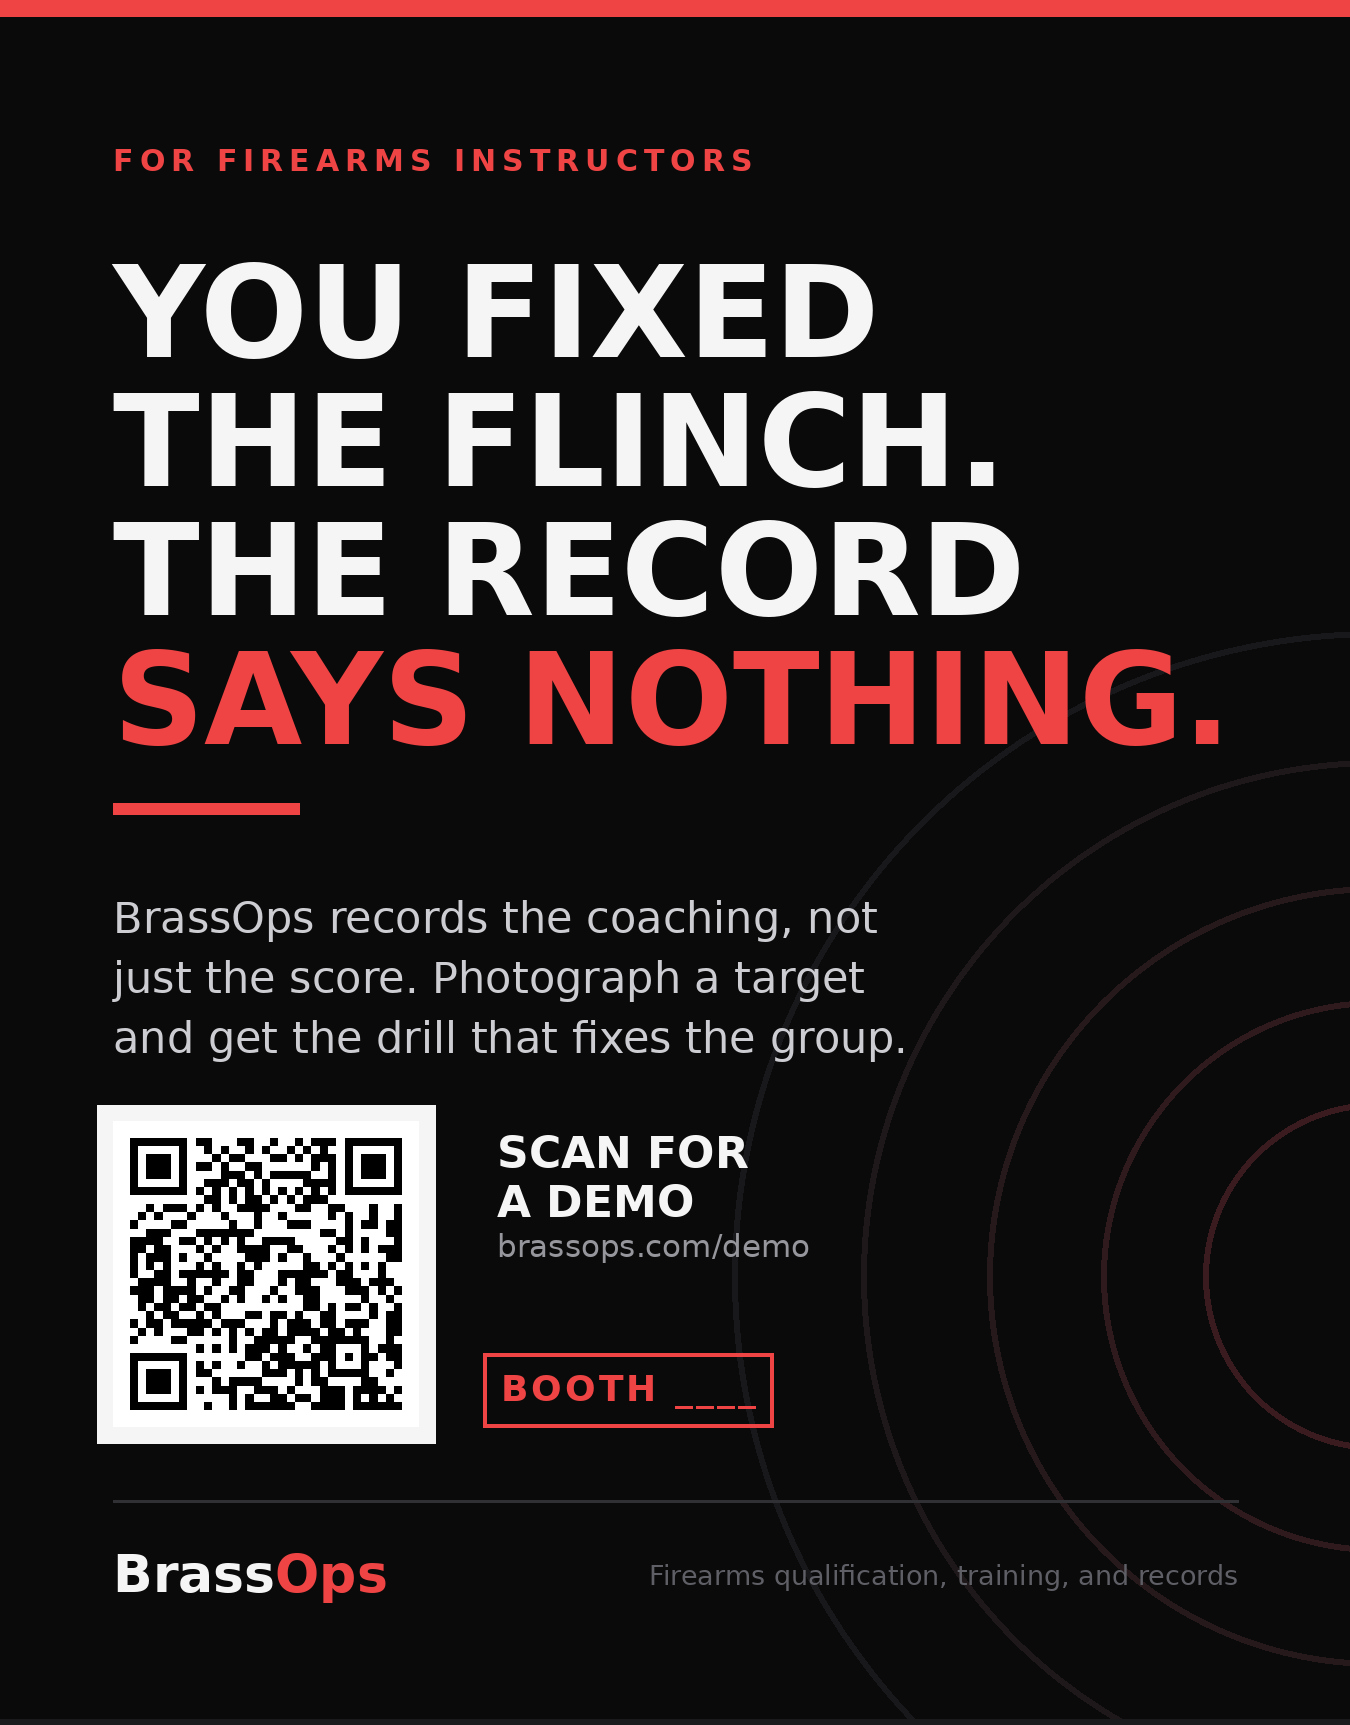
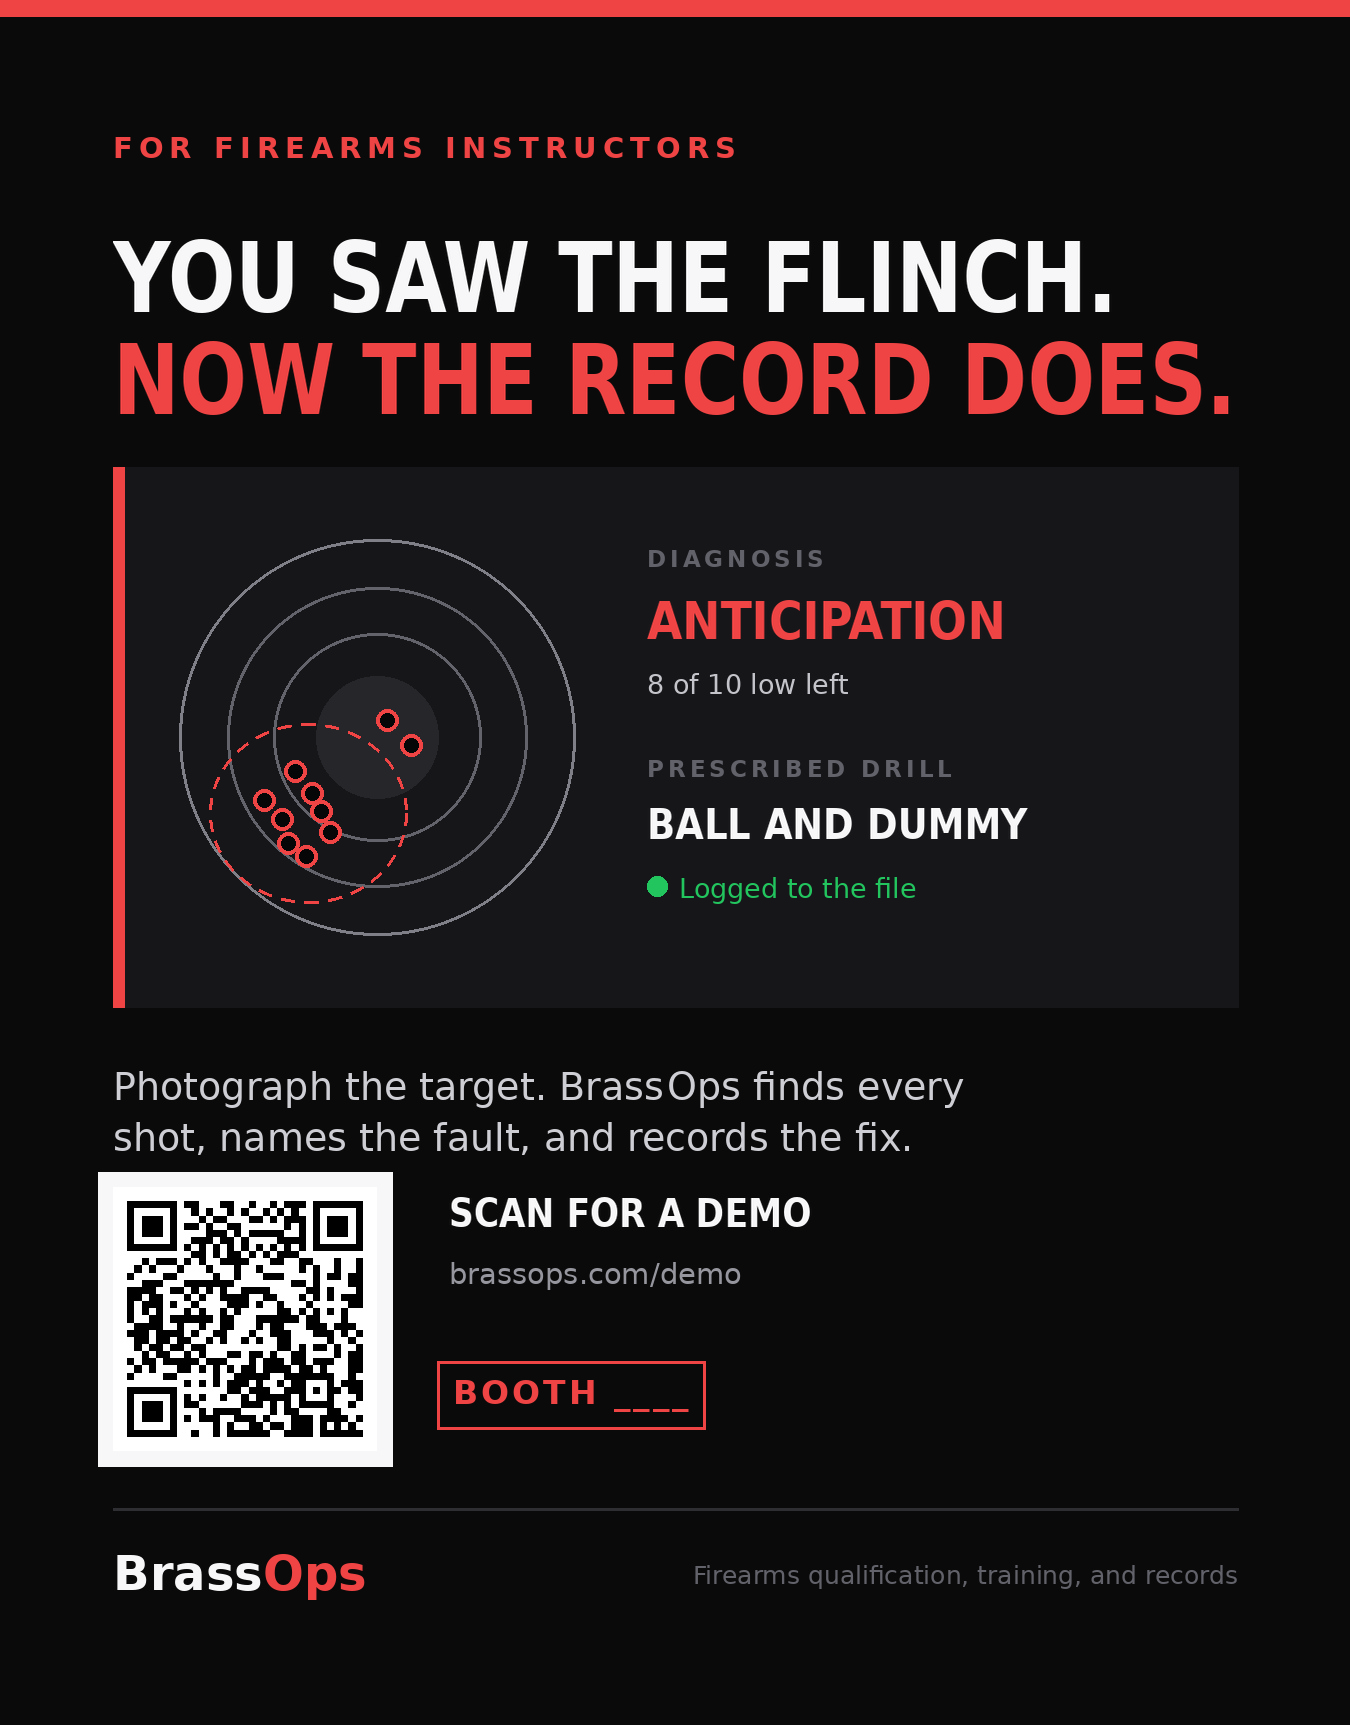
Rebuild trade show ad around the product doing its job
The first pass was four lines of type with no product in it, which is
exactly what every other ad on the page looks like. This version leads
with a shot group instead: an instructor reads a target faster than a
headline, so the picture carries the pitch and the copy stays short.

- Target with ten detected shots grouped low and left, the textbook
  anticipation pattern, with the eight in the dashed group ring matching
  the '8 of 10 low left' readout beside it.
- Readout shows the diagnosis, the prescribed drill, and that the
  session was recorded.
- QR verified to decode to brassops.com/demo.
- Outputs bleed PNG, trim only PNG, and a CMYK JPG for the printer.

diff --git a/ad/build_ad.py b/ad/build_ad.py
@@ -1,166 +1,207 @@
 #!/usr/bin/env python3
 """
-Quarter page magazine ad, built at 300 dpi with bleed.
+Quarter page magazine ad, 300 dpi with bleed.
 
-Trim   4.25 x 5.5 in   (quarter of a US Letter page, portrait)
-Bleed  0.125 in all round
-Safe   0.25 in inside trim
+Trim 4.25 x 5.5 in, 0.125 in bleed, 0.25 in safe margin.
 
-Rendered rather than laid out in a page tool so the output is exact and
-font independent: whatever appears in the PNG is what prints.
+The hero is the product doing its job: a photographed target with every shot
+detected, the group diagnosed, and a drill prescribed. An instructor reads a
+shot group faster than they read a headline, so the picture carries the pitch
+and the type stays short.
 """
 from PIL import Image, ImageDraw, ImageFont
+import io
 import segno
 
 DPI = 300
 def IN(x): return int(round(x * DPI))
 
-TRIM_W, TRIM_H = 4.25, 5.5
-BLEED = 0.125
-SAFE = 0.25
-
+TRIM_W, TRIM_H, BLEED, SAFE = 4.25, 5.5, 0.125, 0.25
 W, H = IN(TRIM_W + BLEED * 2), IN(TRIM_H + BLEED * 2)
-BX, BY = IN(BLEED), IN(BLEED)                       # trim origin
-SX, SY = BX + IN(SAFE), BY + IN(SAFE)               # safe origin
-SW = IN(TRIM_W) - IN(SAFE) * 2                      # safe width
-SAFE_BOTTOM = BY + IN(TRIM_H) - IN(SAFE)
+BX, BY = IN(BLEED), IN(BLEED)
+SX, SY = BX + IN(SAFE), BY + IN(SAFE)
+SW = IN(TRIM_W) - IN(SAFE) * 2
+SB = BY + IN(TRIM_H) - IN(SAFE)
 
 BLACK = (10, 10, 10)
-WHITE = (245, 245, 245)
+PANEL = (22, 22, 25)
+WHITE = (247, 247, 248)
 RED = (239, 68, 68)
-GREY = (150, 150, 156)
-DIM = (95, 95, 102)
+GREEN = (34, 197, 94)
+GREY = (150, 150, 158)
+DIM = (98, 98, 106)
+PAPER = (196, 196, 202)
 
 BOLD = "/usr/share/fonts/truetype/dejavu/DejaVuSans-Bold.ttf"
 REG = "/usr/share/fonts/truetype/dejavu/DejaVuSans.ttf"
 
 img = Image.new("RGB", (W, H), BLACK)
 d = ImageDraw.Draw(img)
+F = lambda p, s: ImageFont.truetype(p, s)
 
-def font(path, size): return ImageFont.truetype(path, size)
 
-def measure(text, f):
-    b = d.textbbox((0, 0), text, font=f)
-    return b[2] - b[0], b[3] - b[1]
+def condensed(text, size, fill, squeeze=0.82):
+    """No condensed face is installed, so squeeze a wide one horizontally.
+    Gives the headline a technical feel closer to the brand face."""
+    f = F(BOLD, size)
+    w = int(d.textlength(text, font=f)) + size
+    h = int(size * 1.45)
+    tmp = Image.new("RGBA", (w, h), (0, 0, 0, 0))
+    ImageDraw.Draw(tmp).text((0, 0), text, font=f, fill=fill + (255,))
+    return tmp.resize((max(1, int(w * squeeze)), h), Image.LANCZOS)
 
-def fit(text, path, target_w, start=200):
-    """Largest size at which text fits target_w."""
+
+def fit_condensed(text, target_w, squeeze=0.82, start=190):
     s = start
-    while s > 8:
-        if measure(text, font(path, s))[0] <= target_w:
+    while s > 10:
+        if d.textlength(text, font=F(BOLD, s)) * squeeze <= target_w:
             return s
         s -= 1
-    return 8
+    return 10
+
 
 def tracked(draw, xy, text, f, fill, track=0):
-    """Draw text with manual letterspacing. Returns width drawn."""
     x, y = xy
     for ch in text:
         draw.text((x, y), ch, font=f, fill=fill)
         x += draw.textlength(ch, font=f) + track
-    return x - xy[0] - (track if text else 0)
+    return x - xy[0]
 
-def tracked_width(draw, text, f, track=0):
-    w = sum(draw.textlength(c, font=f) for c in text)
-    return w + track * max(0, len(text) - 1)
 
-# ── Background motif ────────────────────────────────────────────────────
-# Concentric rings bleeding off the right edge, echoing the site's crosshair
-# field. Drawn onto the background so it never dulls the accent colours.
-_cx, _cy = int(W * 1.02), int(H * 0.74)
-for _r_in, _col in [(2.15, (24, 24, 27)), (1.72, (30, 24, 26)),
-                    (1.30, (38, 25, 27)), (0.92, (47, 26, 29)),
-                    (0.58, (58, 27, 31))]:
-    _r = IN(_r_in)
-    d.ellipse([_cx - _r, _cy - _r, _cx + _r, _cy + _r], outline=_col, width=IN(0.020))
+def tracked_w(text, f, track=0):
+    return sum(d.textlength(c, font=f) for c in text) + track * max(0, len(text) - 1)
 
-# ── Full bleed accents ──────────────────────────────────────────────────
-d.rectangle([0, 0, W, IN(0.055)], fill=RED)                    # top bar
-d.rectangle([0, H - IN(0.02), W, H], fill=(26, 26, 28))        # base shadow
 
-y = SY + IN(0.10)
+# ── Accents ─────────────────────────────────────────────────────────────
+d.rectangle([0, 0, W, IN(0.055)], fill=RED)
+
+y = SY + IN(0.06)
 
 # ── Eyebrow ─────────────────────────────────────────────────────────────
-f_eye = font(BOLD, 30)
-tracked(d, (SX, y), "FOR FIREARMS INSTRUCTORS", f_eye, RED, track=6)
-y += IN(0.32)
-
-# ── Headline. Sized so the longest line fills the safe width. ───────────
-head = ["YOU FIXED", "THE FLINCH.", "THE RECORD", "SAYS NOTHING."]
-hsize = min(fit(l, BOLD, SW, start=220) for l in head)
-f_head = font(BOLD, hsize)
-line_h = int(hsize * 1.02)
-
-for i, line in enumerate(head):
-    # Final line carries the turn, so it takes the accent colour.
-    d.text((SX, y), line, font=f_head, fill=RED if i == 3 else WHITE)
-    y += line_h
-
-y += IN(0.16)
-d.rectangle([SX, y, SX + IN(0.62), y + IN(0.035)], fill=RED)   # rule
+tracked(d, (SX, y), "FOR FIREARMS INSTRUCTORS", F(BOLD, 29), RED, track=6)
 y += IN(0.30)
 
-# ── Body ────────────────────────────────────────────────────────────────
-f_body = font(REG, 43)
-body = [
-    "BrassOps records the coaching, not",
-    "just the score. Photograph a target",
-    "and get the drill that fixes the group.",
-]
-for line in body:
-    d.text((SX, y), line, font=f_body, fill=(205, 205, 210))
-    y += int(43 * 1.40)
+# ── Headline, two lines ─────────────────────────────────────────────────
+head = ["YOU SAW THE FLINCH.", "NOW THE RECORD DOES."]
+hs = min(fit_condensed(l, SW) for l in head)
+for i, line in enumerate(head):
+    layer = condensed(line, hs, WHITE if i == 0 else RED)
+    img.paste(layer, (SX, y), layer)
+    y += int(hs * 1.06)
 
-# ── QR block, anchored to the bottom ────────────────────────────────────
-QR_PX = IN(1.02)
-qr = segno.make("https://brassops.com/demo", error="h")
-import io
-_buf = io.BytesIO()
-qr.save(_buf, kind="png", scale=20, border=2, dark="#000000", light="#ffffff")
-_buf.seek(0)
-qr_img = Image.open(_buf).convert("RGB").resize((QR_PX, QR_PX), Image.NEAREST)
+y += IN(0.14)
 
-foot_h = IN(0.42)
-qr_y = SAFE_BOTTOM - foot_h - QR_PX - IN(0.20)
+# ── Hero: the analysis view ─────────────────────────────────────────────
+PANEL_H = IN(1.80)
+panel_top = y
+d.rectangle([SX, panel_top, SX + SW, panel_top + PANEL_H], fill=PANEL)
+d.rectangle([SX, panel_top, SX + IN(0.035), panel_top + PANEL_H], fill=RED)
 
-pad = IN(0.055)
-d.rectangle([SX - pad, qr_y - pad, SX + QR_PX + pad, qr_y + QR_PX + pad], fill=WHITE)
-img.paste(qr_img, (SX, qr_y))
+# Target, left side of the panel
+tcx = SX + IN(0.88)
+tcy = panel_top + PANEL_H // 2
+R = IN(0.66)
 
-tx = SX + QR_PX + IN(0.26)
-f_cta = font(BOLD, 44)
-f_sub = font(REG, 31)
-d.text((tx, qr_y + IN(0.02)), "SCAN FOR", font=f_cta, fill=WHITE)
-d.text((tx, qr_y + IN(0.02) + int(44 * 1.12)), "A DEMO", font=f_cta, fill=WHITE)
-d.text((tx, qr_y + IN(0.02) + int(44 * 2.30)), "brassops.com/demo", font=f_sub, fill=GREY)
+for i, rr in enumerate([1.0, 0.76, 0.53, 0.31]):
+    r = int(R * rr)
+    d.ellipse([tcx - r, tcy - r, tcx + r, tcy + r],
+              outline=(128, 128, 136) if i == 0 else (99, 99, 107), width=IN(0.010))
+r = int(R * 0.31)
+d.ellipse([tcx - r, tcy - r, tcx + r, tcy + r], fill=(38, 38, 42))
 
-# Booth number. Replace the underscores before sending to the printer.
-f_booth = font(BOLD, 36)
-booth_y = qr_y + QR_PX - IN(0.20)
-bw = tracked_width(d, "BOOTH ____", f_booth, 3)
-d.rectangle([tx - IN(0.045), booth_y - IN(0.045),
-             tx + bw + IN(0.075), booth_y + IN(0.20)],
-            outline=RED, width=IN(0.012))
-tracked(d, (tx + IN(0.015), booth_y), "BOOTH ____", f_booth, RED, track=3)
+# Detected shots. Deliberately grouped low and left: textbook anticipation
+# for a right handed shooter, which every instructor reads instantly. Eight
+# sit inside the dashed group ring and two do not, so the picture and the
+# "8 of 10 low left" readout agree if anyone stops to count.
+shots = [(-0.30, 0.26), (-0.44, 0.38), (-0.22, 0.44), (-0.38, 0.16),
+         (-0.52, 0.29), (-0.26, 0.34), (-0.41, 0.49), (-0.33, 0.55),
+         (0.05, -0.08), (0.16, 0.04)]
+SPREAD = 1.10
+hole = IN(0.038)
+for sx_, sy_ in shots:
+    px, py = tcx + int(sx_ * R * SPREAD), tcy + int(sy_ * R * SPREAD)
+    d.ellipse([px - hole, py - hole, px + hole, py + hole], fill=(6, 6, 7))
+    d.ellipse([px - hole, py - hole, px + hole, py + hole], outline=RED, width=IN(0.012))
 
-# ── Footer wordmark ─────────────────────────────────────────────────────
-f_mark = font(BOLD, 52)
-mark_y = SAFE_BOTTOM - IN(0.235)
-d.line([SX, mark_y - IN(0.14), SX + SW, mark_y - IN(0.14)], fill=(48, 48, 52), width=3)
+# Detected group boundary, drawn as a dashed ring
+gx = tcx + int(-0.32 * R * SPREAD)
+gy = tcy + int(0.35 * R * SPREAD)
+grx, gry = IN(0.33), IN(0.30)
+for a in range(0, 360, 14):
+    d.arc([gx - grx, gy - gry, gx + grx, gy + gry], a, a + 8, fill=RED, width=IN(0.010))
+
+# Readout, right side of the panel
+rx = SX + IN(1.78)
+ry = panel_top + IN(0.26)
+
+f_lbl = F(BOLD, 23)
+f_sm = F(REG, 27)
+
+tracked(d, (rx, ry), "DIAGNOSIS", f_lbl, DIM, track=4)
+ry += IN(0.15)
+lay = condensed("ANTICIPATION", 52, RED, squeeze=0.88)
+img.paste(lay, (rx, ry), lay)
+ry += IN(0.26)
+d.text((rx, ry), "8 of 10 low left", font=f_sm, fill=PAPER)
+ry += IN(0.29)
+
+tracked(d, (rx, ry), "PRESCRIBED DRILL", f_lbl, DIM, track=4)
+ry += IN(0.15)
+lay = condensed("BALL AND DUMMY", 42, WHITE, squeeze=0.88)
+img.paste(lay, (rx, ry), lay)
+ry += IN(0.24)
+
+d.ellipse([rx, ry + IN(0.015), rx + IN(0.065), ry + IN(0.08)], fill=GREEN)
+d.text((rx + IN(0.105), ry), "Logged to the file", font=f_sm, fill=GREEN)
+
+y = panel_top + PANEL_H + IN(0.19)
+
+# ── One thought, two lines ──────────────────────────────────────────────
+f_body = F(REG, 38)
+d.text((SX, y), "Photograph the target. Brass Ops finds every", font=f_body, fill=(206, 206, 212))
+d.text((SX, y + int(38 * 1.36)), "shot, names the fault, and records the fix.", font=f_body, fill=(206, 206, 212))
+
+# ── QR block ────────────────────────────────────────────────────────────
+QR = IN(0.88)
+buf = io.BytesIO()
+segno.make("https://brassops.com/demo", error="h").save(
+    buf, kind="png", scale=20, border=2, dark="#000000", light="#ffffff")
+buf.seek(0)
+qr_img = Image.open(buf).convert("RGB").resize((QR, QR), Image.NEAREST)
+
+foot_h = IN(0.40)
+qy = SB - foot_h - QR - IN(0.14)
+pad = IN(0.05)
+d.rectangle([SX - pad, qy - pad, SX + QR + pad, qy + QR + pad], fill=WHITE)
+img.paste(qr_img, (SX, qy))
+
+tx = SX + QR + IN(0.24)
+lay = condensed("SCAN FOR A DEMO", 40, WHITE, squeeze=0.86)
+img.paste(lay, (tx, qy + IN(0.005)), lay)
+d.text((tx, qy + IN(0.235)), "brassops.com/demo", font=F(REG, 29), fill=GREY)
+
+f_booth = F(BOLD, 33)
+by_ = qy + QR - IN(0.26)
+bw = tracked_w("BOOTH ____", f_booth, 3)
+d.rectangle([tx - IN(0.04), by_ - IN(0.04), tx + bw + IN(0.07), by_ + IN(0.185)],
+            outline=RED, width=IN(0.011))
+tracked(d, (tx + IN(0.015), by_), "BOOTH ____", f_booth, RED, track=3)
+
+# ── Footer ──────────────────────────────────────────────────────────────
+f_mark = F(BOLD, 48)
+my = SB - IN(0.225)
+d.line([SX, my - IN(0.12), SX + SW, my - IN(0.12)], fill=(46, 46, 50), width=3)
 w1 = d.textlength("Brass", font=f_mark)
-d.text((SX, mark_y), "Brass", font=f_mark, fill=WHITE)
-d.text((SX + w1, mark_y), "Ops", font=f_mark, fill=RED)
+d.text((SX, my), "Brass", font=f_mark, fill=WHITE)
+d.text((SX + w1, my), "Ops", font=f_mark, fill=RED)
 
-f_tag = font(REG, 27)
+f_tag = F(REG, 25)
 tag = "Firearms qualification, training, and records"
-d.text((SX + SW - d.textlength(tag, font=f_tag), mark_y + IN(0.055)),
-       tag, font=f_tag, fill=DIM)
+d.text((SX + SW - d.textlength(tag, font=f_tag), my + IN(0.05)), tag, font=f_tag, fill=DIM)
 
 img.save("brassops-quarter-page-ad.png", dpi=(DPI, DPI))
 img.convert("CMYK").save("brassops-quarter-page-ad-CMYK.jpg", dpi=(DPI, DPI), quality=97)
-
-# Trim-only version for printers that do not want bleed.
 img.crop((BX, BY, BX + IN(TRIM_W), BY + IN(TRIM_H))).save(
     "brassops-quarter-page-ad-NOBLEED.png", dpi=(DPI, DPI))
 
-print(f"canvas {W}x{H}px  headline {hsize}px  qr {QR_PX}px")
+print(f"{W}x{H}px  headline {hs}px  panel {PANEL_H}px  qr {QR}px")
